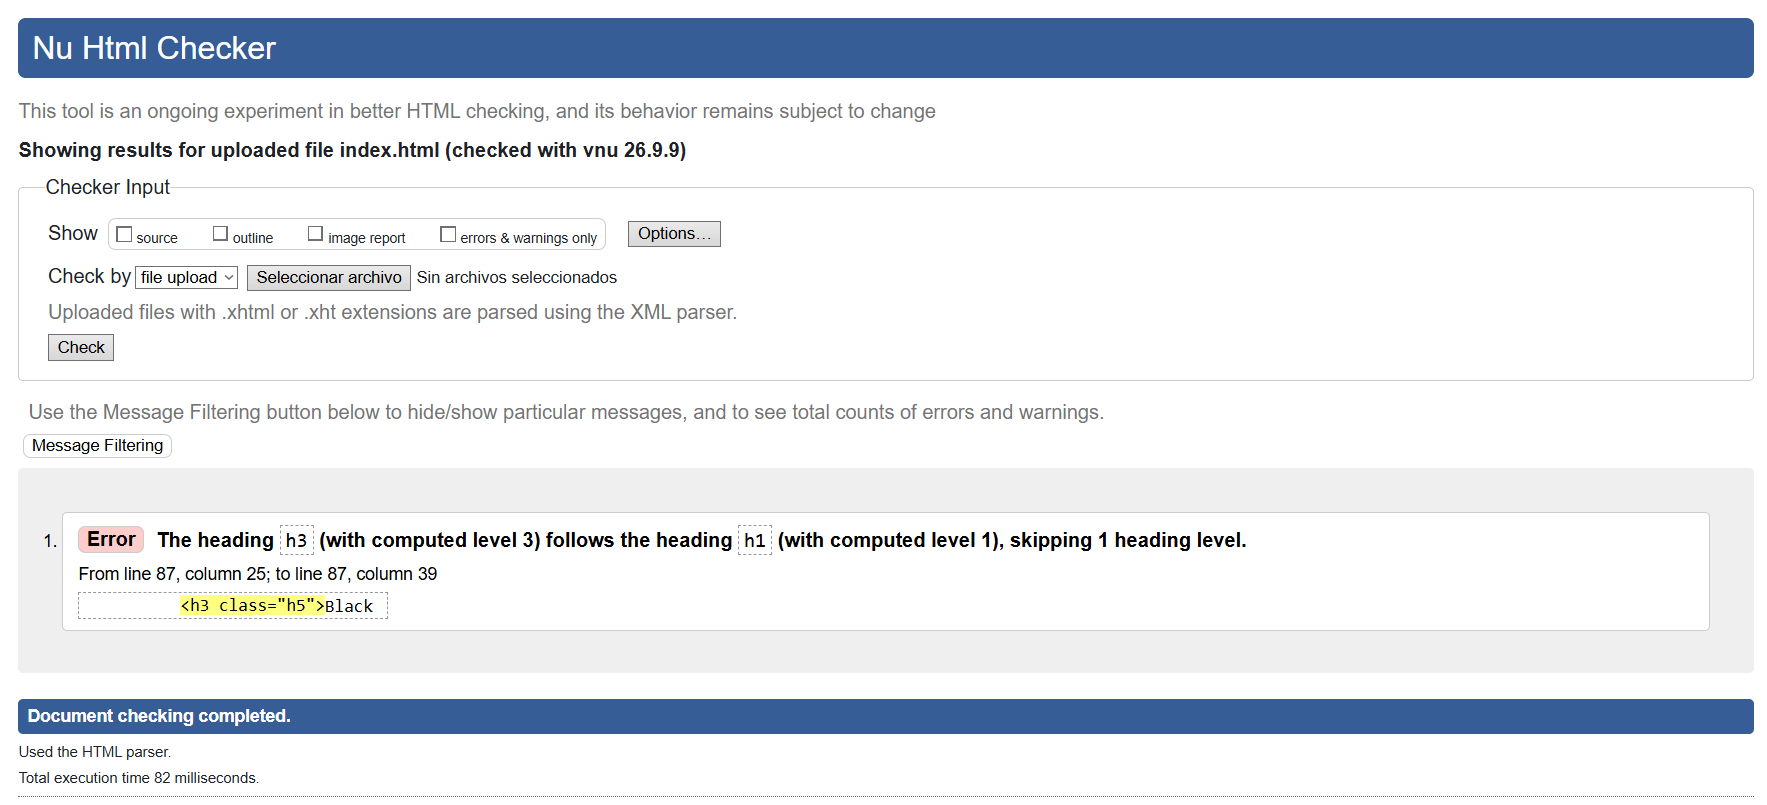
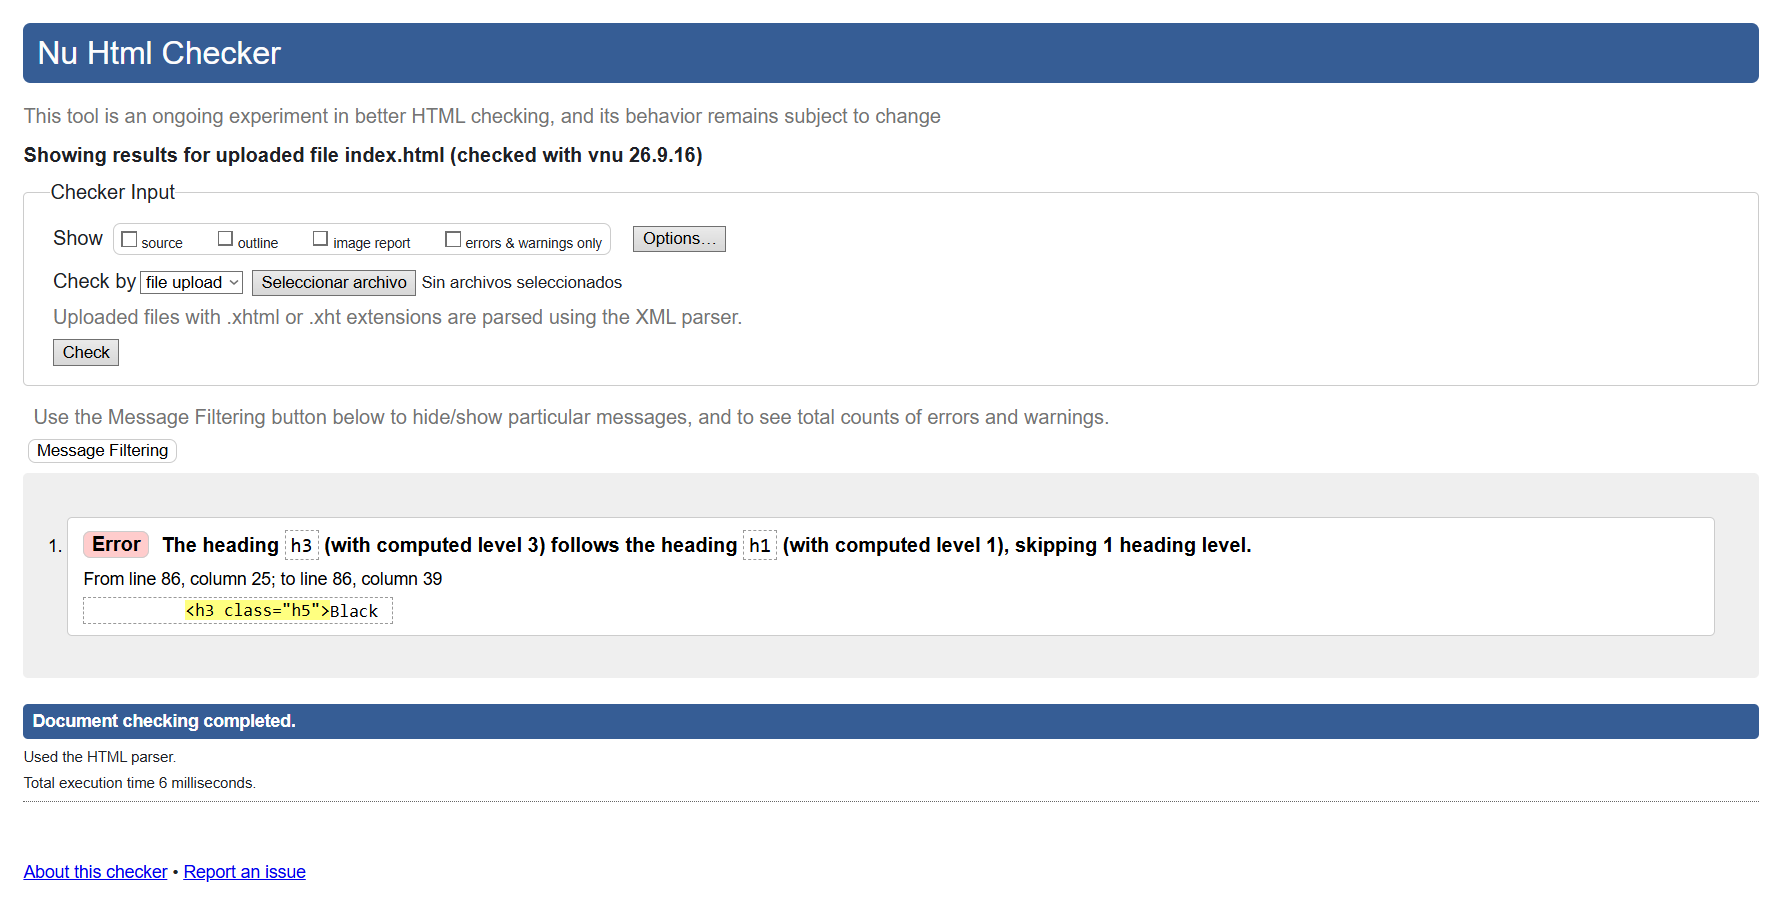
fix: evento submit en buscador y README actualizado

Changed region(s): [[0.0, 0.0, 0.996, 0.9938]]

diff --git a/assets/js/script.js b/assets/js/script.js
@@ -14,7 +14,7 @@ let filtroPlataforma = "Todos";
 let filtroGenero = "Todos";
 
 
-// 1. INICIALIZACIÓN
+// INICIALIZACIÓN
 document.addEventListener("DOMContentLoaded", function () {
     cargarProductosDesdeJSON();
     cargarJuegosDesdeAPI();
@@ -23,7 +23,7 @@ document.addEventListener("DOMContentLoaded", function () {
 });
 
 
-// 2. FETCH API — JSON LOCAL
+// FETCH API — JSON LOCAL
 
 // Carga el JSON local y dispara el renderizado de destacados y catálogo
 function cargarProductosDesdeJSON() {
@@ -56,7 +56,7 @@ function mostrarErrorCarga(idContenedor) {
 }
 
 
-// 3. RENDERIZADO — DESTACADOS (5 juegos)
+// RENDERIZADO — DESTACADOS (5 juegos)
 
 function renderizarDestacados(productos) {
     const contenedor = document.getElementById("contenedor-destacados");
@@ -74,7 +74,7 @@ function renderizarDestacados(productos) {
 }
 
 
-// 4. RENDERIZADO — CATÁLOGO COMPLETO
+// RENDERIZADO — CATÁLOGO COMPLETO
 
 function renderizarCatalogo(productos) {
     const contenedor = document.getElementById("contenedor-catalogo");
@@ -104,7 +104,7 @@ function renderizarCatalogo(productos) {
 }
 
 
-// 5. CREACIÓN DE CARDS
+// CREACIÓN DE CARDS
 
 // Genera y retorna una columna con la card de un producto
 function crearCardProducto(producto) {
@@ -156,7 +156,7 @@ function crearCardProducto(producto) {
 }
 
 
-// 6. CARRITO
+// CARRITO
 
 // Agrega un producto al carrito o aumenta su cantidad si ya existe
 function agregarAlCarrito(producto) {
@@ -229,22 +229,17 @@ function actualizarCarrito() {
 }
 
 
-// 7. BÚSQUEDA (evento submit)
+// BÚSQUEDA (evento submit)
 
 function configurarBusqueda() {
-    const btnBuscar = document.getElementById("btn-buscar");
+    const form = document.getElementById("form-busqueda");
     const inputBusqueda = document.getElementById("input-busqueda");
     const resultadoContenedor = document.getElementById("resultado-busqueda");
 
-    btnBuscar.addEventListener("click", function () {
+    // Evento submit real sobre el formulario
+    form.addEventListener("submit", function (evento) {
+        evento.preventDefault();
         ejecutarBusqueda(inputBusqueda, resultadoContenedor);
-    });
-
-    // También responde al Enter dentro del input
-    inputBusqueda.addEventListener("keydown", function (evento) {
-        if (evento.key === "Enter") {
-            ejecutarBusqueda(inputBusqueda, resultadoContenedor);
-        }
     });
 }
 
@@ -278,7 +273,7 @@ function ejecutarBusqueda(input, contenedor) {
 }
 
 
-// 8. FILTROS (plataforma y género)
+// FILTROS (plataforma y género)
 
 function configurarFiltros() {
     // Delegación de eventos en el grupo de plataforma
@@ -312,7 +307,7 @@ function configurarFiltros() {
 }
 
 
-// 9. FETCH API — API EXTERNA (GameBrain)
+// FETCH API — API EXTERNA (GameBrain)
 
 function cargarJuegosDesdeAPI() {
     const contenedor = document.getElementById("contenedor-api");

diff --git a/index.html b/index.html
@@ -142,15 +142,17 @@
                 <!-- SECCIÓN BÚSQUEDA -->
                 <section id="busqueda">
                     <h2>Buscar juego</h2>
-                    <div class="row g-2 align-items-center">
-                        <div class="col-12 col-md-8">
-                            <input type="text" id="input-busqueda" class="form-control form-control-gamezone"
-                                placeholder="Escribe el nombre de un juego...">
+                    <form id="form-busqueda" novalidate>
+                        <div class="row g-2 align-items-center">
+                            <div class="col-12 col-md-8">
+                                <input type="text" id="input-busqueda" class="form-control form-control-gamezone"
+                                    placeholder="Escribe el nombre de un juego...">
+                            </div>
+                            <div class="col-12 col-md-4">
+                                <button type="submit" id="btn-buscar" class="btn btn-gamezone w-100">Buscar</button>
+                            </div>
                         </div>
-                        <div class="col-12 col-md-4">
-                            <button id="btn-buscar" class="btn btn-gamezone w-100">Buscar</button>
-                        </div>
-                    </div>
+                    </form>
                     <div id="resultado-busqueda" class="mt-3"></div>
                 </section>
 

diff --git a/README.md b/README.md
@@ -4,77 +4,59 @@ Sitio web responsivo desarrollado en HTML5, CSS3, Bootstrap 5 y JavaScript.
 
 ## Descripción
 
-GameZone es una tienda de videojuegos en línea que presenta productos destacados, categorías disponibles y un formulario de contacto. El sitio implementa manipulación del DOM, eventos y consumo de API externa mediante JavaScript vanilla.
+GameZone es una tienda de videojuegos en línea que presenta productos destacados, un catálogo completo con filtros, carrito de compras y un formulario de contacto. El sitio implementa manipulación del DOM, eventos, consumo de API externa y carga de datos desde un JSON local mediante JavaScript vanilla.
 
 ## Tecnologías utilizadas
 
 - HTML5 semántico
 - CSS3 (variables, Flexbox, media queries)
 - Bootstrap 5.3.3 (navbar, carousel, grid system, cards, utilidades Flexbox)
-- JavaScript ES6 (manipulación del DOM, eventos, Fetch API)
-- GameBrain API (carga dinámica de juegos)
+- JavaScript (manipulación del DOM, eventos, Fetch API)
+- JSON local (catálogo de productos)
+- GameBrain API (carga dinámica de juegos adicionales)
 - GitHub Pages (despliegue)
 
 ## Características
 
-- Navbar responsiva con colapso en móvil (botón hamburguesa)
+- Navbar responsiva con colapso en móvil (botón hamburguesa) y enlaces a secciones internas
 - Carrusel de 5 imágenes con transición automática cada 3 segundos
-- Grid de productos con 10 títulos organizados en cards Bootstrap
-- Columna lateral con categorías disponibles
-- Sección "Descubre más juegos" generada dinámicamente con Fetch API
-- Eventos mouseover y click en cards de productos
+- Sección de productos destacados: 5 títulos cargados dinámicamente desde JSON local
+- Sección de catálogo completo: 15 títulos con filtros por plataforma y género (pills Bootstrap)
+- Carrito de compras: agrega productos, muestra subtotal por ítem y total acumulado
+- Buscador con evento `submit` que filtra por nombre o género en tiempo real
+- Sección "Descubre más juegos" generada dinámicamente con Fetch API externa (GameBrain)
+- Manejo de errores con mensajes amigables si el JSON o la API no cargan
 - Página de contacto dedicada con formulario validado por JavaScript
 - Variables CSS para paleta de colores coherente
 - Accesibilidad básica con `:focus-visible` en links y botones
 
 ## Vista previa
 
-### Escritorio
-![Vista escritorio](screenshots/vista_pc.png)
-![Vista escritorio](screenshots/vista_pc1.png)
+### Escritorio (Chrome)
+![Vista escritorio](screenshots/vista-pc.gif)
 
-### Tablet
-![Vista tablet](screenshots/vista_tablet.png)
-![Vista tablet](screenshots/vista_tablet1.png)
+### Tablet — iPad Air (Firefox)
+![Vista tablet](screenshots/vista-tablet.gif)
 
-### Móvil
-<img src="screenshots/vista_movil.png" alt="Vista móvil" width="300">
-<img src="screenshots/vista_movil1.png" alt="Vista móvil" width="300">
+### Móvil — iPhone 12 (Edge)
+![Vista móvil](screenshots/vista-movil.gif)
+
+## Evidencias de funcionamiento
+
+### Carrito de compras
+![Demo carrito](screenshots/demo-carrito.gif)
+
+### Filtros por plataforma y género
+![Demo filtros](screenshots/demo-filtros.gif)
+
+### Buscador
+![Demo búsqueda](screenshots/demo-busqueda.gif)
+
+### Ver más — producto local y GameBrain
+![Demo ver más](screenshots/demo-ver-mas.gif)
 
 ## Estructura del proyecto
-```
-├── css
-│   └── styles.css
-├── img
-│   ├── baldurs-gate-3.jpg
-│   ├── banner-baldurs-gate-3.jpg
-│   ├── banner-black-myth-wukong.jpg
-│   ├── banner-cities-skylines-2.jpg
-│   ├── banner-ea-fc-25.jpg
-│   ├── banner-nba-2k25.jpg
-│   ├── black-myth-wukong.jpg
-│   ├── cities-skylines-2.jpg
-│   ├── cyberpunk-2077.jpg
-│   ├── ea-fc-25.jpg
-│   ├── elden-ring.jpg
-│   ├── nba-2k25.jpg
-│   ├── spider-man2.jpg
-│   ├── the-sims-4.jpg
-│   └── zelda-totk.jpg
-├── js
-│   ├── contacto.js
-│   └── script.js
-├── screenshots
-│   ├── validacion.png
-│   ├── vista_movil.jpg
-│   ├── vista_movil.png
-│   ├── vista_pc.png
-│   └── vista_tablet.png
-├── .gitattributes
-├── README.md
-├── contacto.html
-└── index.html
-```
+
 
 ## Validación
 
